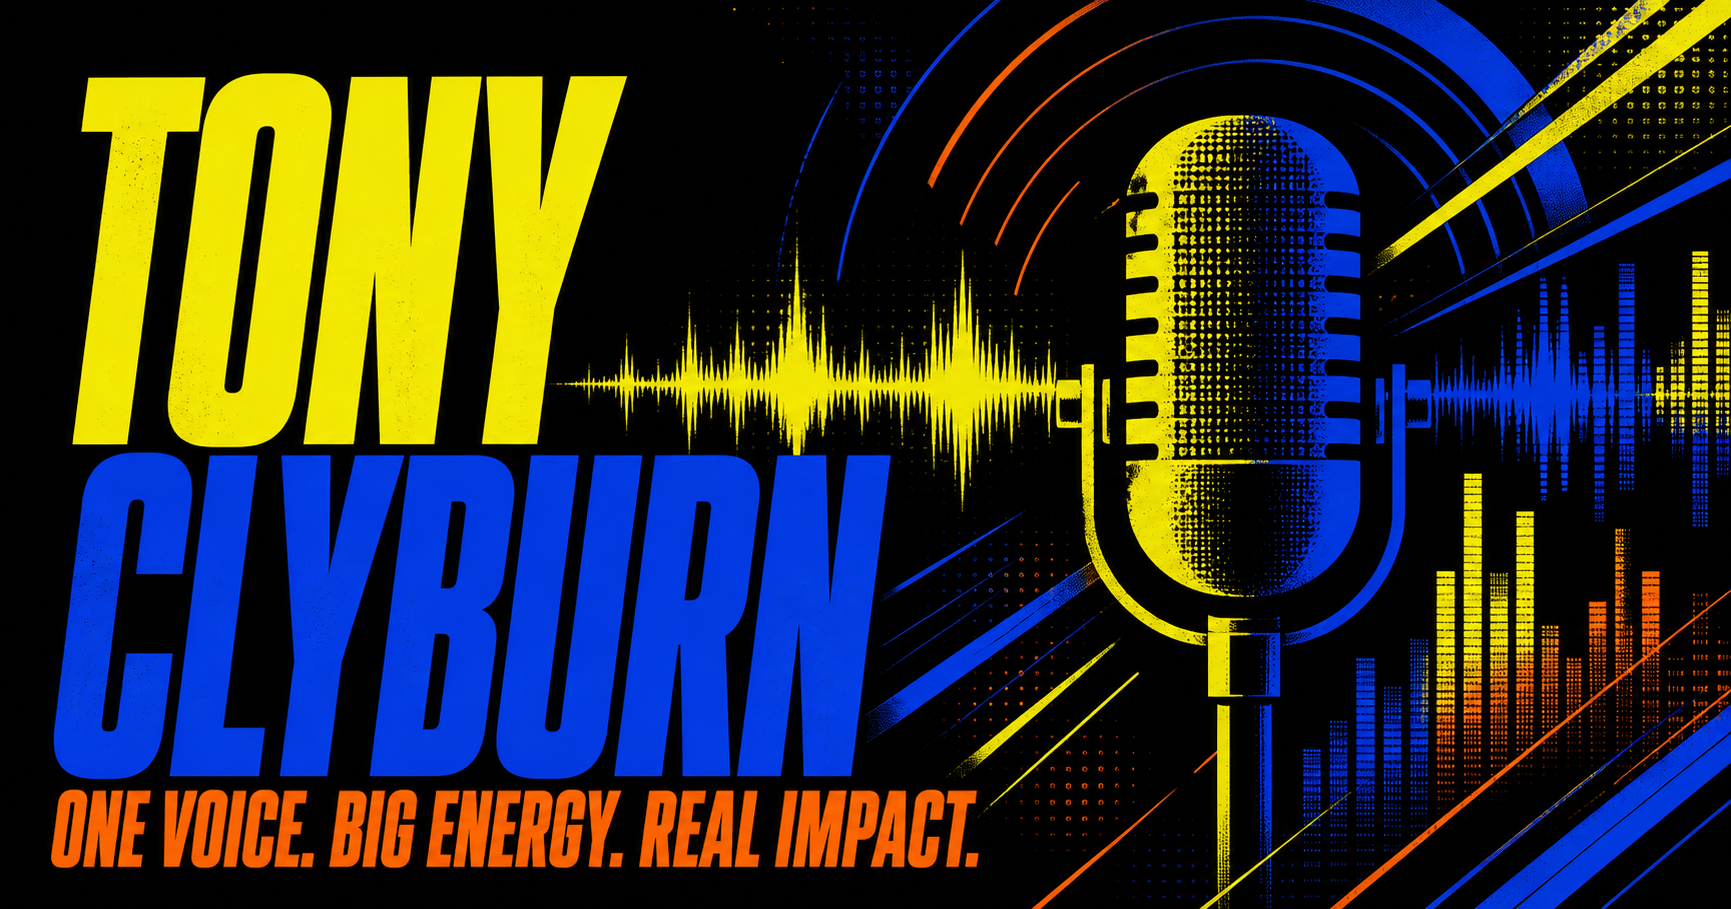
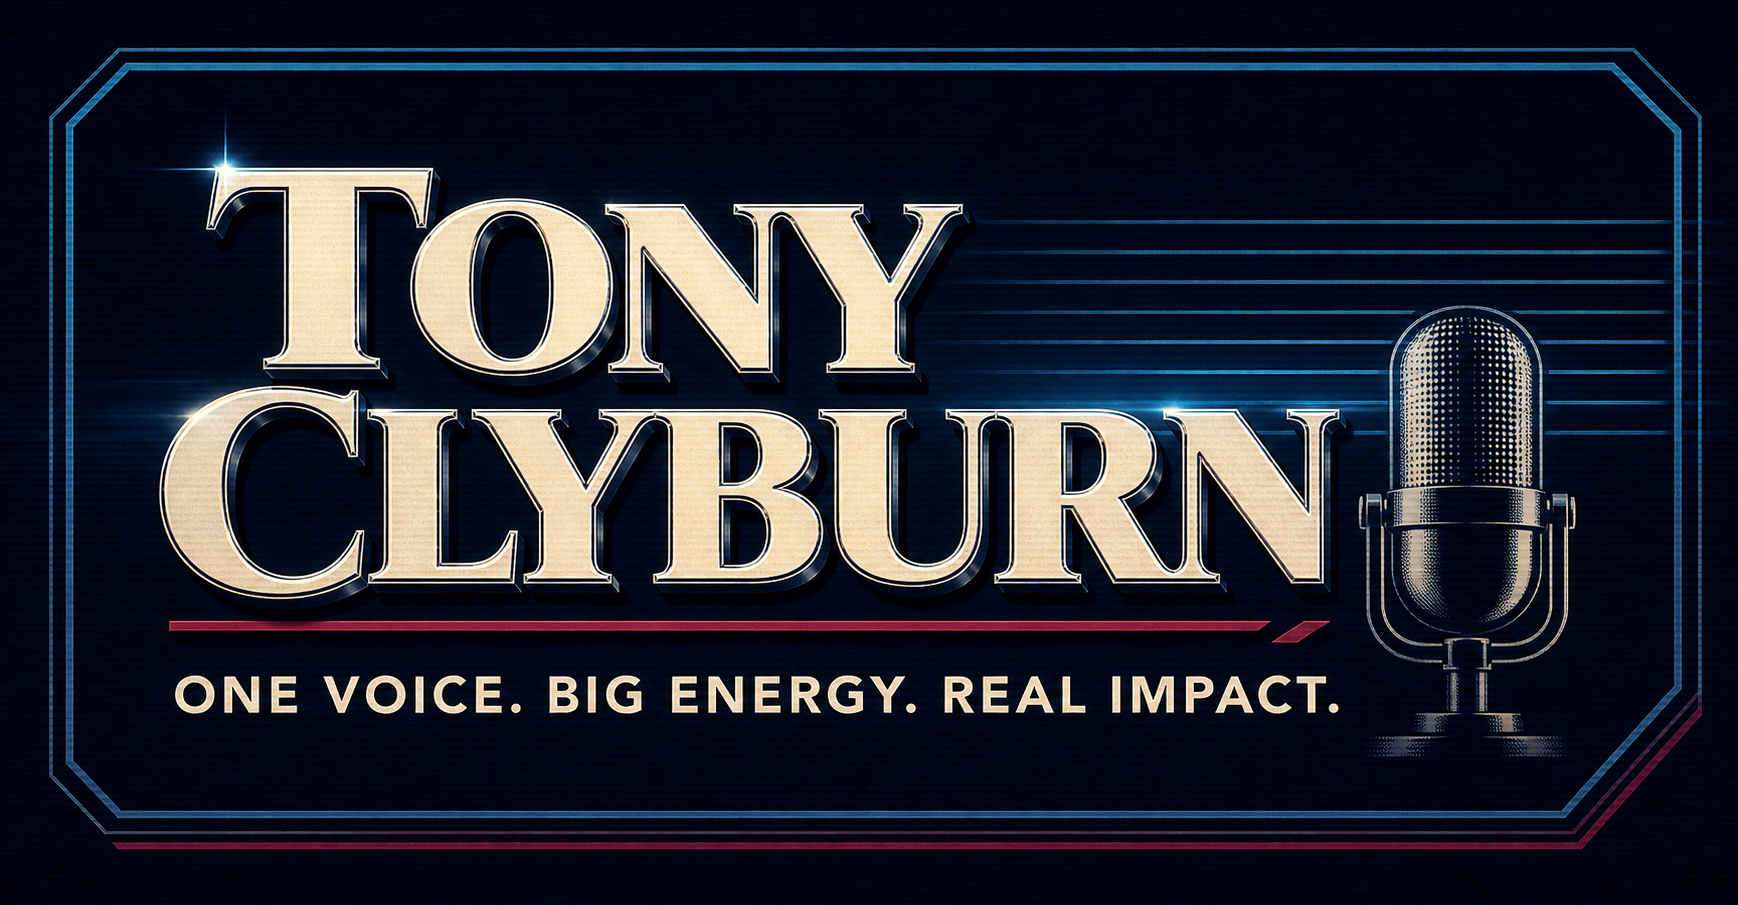
Restyle site with mature 1980s broadcast direction

diff --git a/app/globals.css b/app/globals.css
@@ -1,33 +1,33 @@
 @import 'tailwindcss';
 
-:root { --ink:#0a0a0c; --paper:#f3efe5; --acid:#dfff00; --blue:#335cff; --orange:#ff5c35; --white:#fff; --muted:#aaa99f; }
+:root { --ink:#07111f; --paper:#eee7dc; --acid:#42d9e8; --blue:#264f9e; --orange:#c43d63; --white:#f8f1e7; --muted:#aaa99f; }
 * { box-sizing:border-box; }
 html { scroll-behavior:smooth; }
-body { margin:0; background:var(--ink); color:var(--white); font-family:Arial,Helvetica,sans-serif; }
+body { margin:0; background:var(--ink); color:var(--white); font-family:"Trebuchet MS",Arial,Helvetica,sans-serif; }
 a { color:inherit; text-decoration:none; }
 button { font:inherit; }
-.site-header { position:fixed; z-index:100; inset:0 0 auto; height:82px; display:grid; grid-template-columns:1fr auto; align-items:center; padding:0 max(24px,4vw); border-bottom:1px solid rgba(255,255,255,.14); background:rgba(10,10,12,.78); backdrop-filter:blur(18px); }
+.site-header { position:fixed; z-index:100; inset:0 0 auto; height:82px; display:grid; grid-template-columns:1fr auto; align-items:center; padding:0 max(24px,4vw); border-bottom:2px solid rgba(66,217,232,.65); background:rgba(7,17,31,.94); backdrop-filter:blur(12px); }
 .wordmark { display:inline-flex; align-items:baseline; gap:8px; width:max-content; font-weight:900; letter-spacing:-.055em; }
 .wordmark span { font-size:.72rem; letter-spacing:.2em; color:var(--acid); }
 .wordmark b { font-size:1.35rem; }
 .site-header nav { display:flex; align-items:center; gap:28px; font-size:.78rem; font-weight:800; }
 .site-header nav>a:not(.nav-cta) { color:#d7d7d1; }
 .site-header nav>a:hover { color:var(--acid); }
-.nav-cta { display:inline-flex; align-items:center; gap:22px; padding:12px 16px; border-radius:999px; background:var(--acid); color:var(--ink)!important; }
+.nav-cta { display:inline-flex; align-items:center; gap:22px; padding:12px 16px; border-radius:2px; background:var(--acid); color:var(--ink)!important; box-shadow:5px 5px 0 var(--orange); }
 .menu-button { display:none; }
-.hero { position:relative; min-height:100svh; isolation:isolate; overflow:hidden; padding:120px max(24px,4vw) 76px; background:var(--ink); }
-.hero::before { content:""; position:absolute; z-index:-3; inset:0; background-image:linear-gradient(rgba(255,255,255,.045) 1px,transparent 1px),linear-gradient(90deg,rgba(255,255,255,.045) 1px,transparent 1px); background-size:80px 80px; mask-image:linear-gradient(#000,transparent 90%); }
-.hero-noise { position:absolute; inset:0; z-index:-2; opacity:.12; background-image:radial-gradient(rgba(255,255,255,.8) .65px,transparent .65px); background-size:7px 7px; }
+.hero { position:relative; min-height:100svh; isolation:isolate; overflow:hidden; padding:120px max(24px,4vw) 76px; background:radial-gradient(circle at 80% 18%,rgba(196,61,99,.22),transparent 34%),linear-gradient(135deg,#050b15 0%,#0a1a34 62%,#171027 100%); }
+.hero::before { content:""; position:absolute; z-index:-3; inset:0; background-image:linear-gradient(rgba(66,217,232,.09) 1px,transparent 1px),linear-gradient(90deg,rgba(66,217,232,.09) 1px,transparent 1px); background-size:72px 72px; mask-image:linear-gradient(#000,transparent 92%); }
+.hero-noise { position:absolute; inset:0; z-index:-2; opacity:.08; background-image:repeating-linear-gradient(0deg,rgba(255,255,255,.24) 0,rgba(255,255,255,.24) 1px,transparent 1px,transparent 5px); }
 .hero-grid { width:min(1420px,100%); min-height:calc(100svh - 196px); margin:0 auto; display:grid; grid-template-columns:1.03fr .97fr; align-items:center; gap:6vw; }
 .eyebrow { display:flex; align-items:center; gap:9px; margin:0 0 20px; color:#c3c3ba; font-size:.65rem; font-weight:900; letter-spacing:.17em; text-transform:uppercase; }
 .live-dot { width:8px; height:8px; border-radius:50%; background:var(--orange); box-shadow:0 0 0 7px rgba(255,92,53,.12); }
-h1 { margin:0; font-size:clamp(4.1rem,8vw,9rem); font-weight:950; letter-spacing:-.075em; line-height:.79; text-transform:uppercase; }
+h1 { margin:0; font-family:"Arial Black",Arial,Helvetica,sans-serif; font-size:clamp(4.1rem,8vw,9rem); font-weight:950; letter-spacing:-.055em; line-height:.82; text-transform:uppercase; text-shadow:5px 5px 0 rgba(196,61,99,.62); }
 h1 em { font-style:normal; color:var(--acid); }
 .hero-lede { max-width:690px; margin:30px 0 0; color:#b7b7af; font-size:clamp(1.05rem,1.6vw,1.28rem); line-height:1.65; }
 .hero-actions { display:flex; flex-wrap:wrap; gap:12px; margin-top:32px; }
-.button { min-height:54px; display:inline-flex; align-items:center; justify-content:center; gap:18px; padding:0 23px; border:1px solid transparent; border-radius:999px; font-size:.82rem; font-weight:900; transition:transform .2s ease,background .2s ease,color .2s ease; }
-.button:hover { transform:translateY(-3px); }
-.button-primary { background:var(--acid); color:var(--ink); }
+.button { min-height:54px; display:inline-flex; align-items:center; justify-content:center; gap:18px; padding:0 23px; border:1px solid transparent; border-radius:2px; font-size:.82rem; font-weight:900; transition:background .2s ease,color .2s ease; }
+.button:hover { transform:none; }
+.button-primary { background:var(--acid); color:var(--ink); box-shadow:7px 7px 0 var(--orange); }
 .button-primary:hover { background:var(--white); }
 .button-ghost { border-color:rgba(255,255,255,.2); background:rgba(255,255,255,.05); }
 .button-ghost:hover { background:var(--blue); border-color:var(--blue); }
@@ -39,22 +39,22 @@ h1 em { font-style:normal; color:var(--acid); }
 .hero-stats strong { color:var(--white); font-size:1.15rem; }
 .hero-stats span { margin-top:3px; color:#85857f; font-size:.67rem; }
 .hero-portrait { position:relative; min-height:680px; }
-.portrait-frame { position:absolute; inset:10px 24px 34px 40px; overflow:hidden; border-radius:52% 52% 30px 30px; background:#8399a8; box-shadow:0 50px 120px rgba(0,0,0,.42); }
+.portrait-frame { position:absolute; inset:10px 24px 34px 40px; overflow:hidden; border:2px solid var(--acid); border-radius:3px 110px 3px 3px; background:#8399a8; box-shadow:24px 24px 0 rgba(196,61,99,.72),0 40px 100px rgba(0,0,0,.38); }
 .portrait-frame::after { content:""; position:absolute; inset:0; background:linear-gradient(180deg,transparent 60%,rgba(10,10,12,.44)); }
 .portrait-frame img { object-fit:cover; object-position:center 25%; }
-.on-air-badge { position:absolute; z-index:5; top:0; right:-10px; width:142px; height:142px; display:grid; place-content:center; border-radius:50%; background:var(--orange); color:var(--ink); text-align:center; transform:rotate(7deg); box-shadow:0 20px 50px rgba(0,0,0,.3); }
+.on-air-badge { position:absolute; z-index:5; top:24px; right:-10px; width:142px; height:92px; display:grid; place-content:center; border:3px solid var(--acid); border-radius:2px; background:var(--orange); color:var(--white); text-align:center; transform:none; box-shadow:10px 10px 0 rgba(7,17,31,.78); }
 .on-air-badge span { font-size:.66rem; font-weight:900; letter-spacing:.26em; }
 .on-air-badge strong { font-size:2.35rem; line-height:1; }
-.on-air-badge i { width:9px; height:9px; margin:7px auto 0; border-radius:50%; background:var(--ink); animation:pulse 1.2s infinite; }
+.on-air-badge i { width:24px; height:3px; margin:7px auto 0; border-radius:0; background:var(--acid); animation:none; }
 @keyframes pulse { 50% { opacity:.25; transform:scale(.75); } }
-.signature-card { position:absolute; z-index:4; left:-18px; bottom:5px; width:min(400px,70%); padding:13px 19px; border:8px solid var(--ink); background:var(--white); transform:rotate(-4deg); box-shadow:0 24px 50px rgba(0,0,0,.28); }
+.signature-card { position:absolute; z-index:4; left:-18px; bottom:5px; width:min(400px,70%); padding:13px 19px; border:3px solid var(--acid); background:var(--white); transform:none; box-shadow:10px 10px 0 var(--orange); }
 .signature-card img { width:100%; height:auto; }
 .frequency { position:absolute; right:-5px; bottom:32px; z-index:5; color:var(--acid); font-size:2.15rem; font-weight:950; letter-spacing:-.06em; transform:rotate(-90deg) translateX(100%); transform-origin:right bottom; }
 .frequency span { color:var(--white); font-size:.75rem; letter-spacing:.16em; }
 .scroll-cue { position:absolute; bottom:21px; left:50%; display:flex; align-items:center; gap:11px; color:#74746e; font-size:.58rem; font-weight:900; letter-spacing:.15em; text-transform:uppercase; transform:translateX(-50%); }
 .scroll-cue span { color:var(--acid); font-size:1rem; }
 .signal-bar { overflow:hidden; border-block:1px solid #9cb300; background:var(--acid); color:var(--ink); }
-.signal-bar>div { width:max-content; display:flex; align-items:center; gap:28px; padding:15px 0; font-size:.72rem; font-weight:950; letter-spacing:.17em; animation:ticker 24s linear infinite; }
+.signal-bar>div { width:100%; display:flex; align-items:center; justify-content:center; flex-wrap:wrap; gap:16px 28px; padding:15px max(18px,4vw); font-size:.72rem; font-weight:950; letter-spacing:.17em; animation:none; }
 .signal-bar b { color:var(--blue); }
 @keyframes ticker { to { transform:translateX(-50%); } }
 @media(max-width:900px){.menu-button{display:flex;align-items:center;gap:8px;border:0;background:transparent;color:var(--white);font-size:.68rem;font-weight:900;text-transform:uppercase}.menu-button i{width:17px;height:2px;background:var(--acid)}.site-header nav{position:absolute;top:82px;left:16px;right:16px;display:none;flex-direction:column;align-items:stretch;padding:18px;border:1px solid rgba(255,255,255,.14);border-radius:18px;background:#111115}.site-header nav.nav-open{display:flex}.hero-grid{grid-template-columns:1fr}.hero-copy{padding-top:26px}.hero-portrait{width:min(700px,100%);min-height:650px;margin-inline:auto}}
@@ -65,7 +65,7 @@ h1 em { font-style:normal; color:var(--acid); }
 .skip-link:focus { transform:translateY(0); }
 .section-shell { width:min(1420px,100%); margin-inline:auto; }
 .section-kicker { margin:0 0 18px; color:var(--blue); font-size:.68rem; font-weight:950; letter-spacing:.19em; text-transform:uppercase; }
-h2 { margin:0; font-size:clamp(3rem,6.3vw,7.2rem); font-weight:950; letter-spacing:-.065em; line-height:.86; text-transform:uppercase; }
+h2 { margin:0; font-family:"Arial Black",Arial,Helvetica,sans-serif; font-size:clamp(3rem,6.3vw,7.2rem); font-weight:950; letter-spacing:-.055em; line-height:.88; text-transform:uppercase; }
 h2 em { color:var(--blue); font-style:normal; }
 .big-copy { font-size:clamp(1.25rem,2vw,1.85rem); font-weight:750; letter-spacing:-.025em; line-height:1.35; }
 .text-link { display:inline-flex; gap:18px; align-items:center; margin-top:22px; border-bottom:2px solid currentColor; padding-bottom:8px; font-size:.82rem; font-weight:950; text-transform:uppercase; }
@@ -73,36 +73,35 @@ h2 em { color:var(--blue); font-style:normal; }
 .about-section { padding:140px max(24px,4vw); background:var(--paper); color:var(--ink); }
 .about-grid { display:grid; grid-template-columns:minmax(0,.86fr) minmax(0,1.14fr); gap:clamp(48px,8vw,130px); align-items:center; }
 .about-media { position:relative; min-height:700px; }
-.about-image { position:absolute; inset:0 8% 0 0; overflow:hidden; border-radius:2px 220px 2px 2px; background:#211f1b; }
+.about-image { position:absolute; inset:0 8% 0 0; overflow:hidden; border:3px solid var(--blue); border-radius:2px; background:#211f1b; box-shadow:18px 18px 0 rgba(196,61,99,.82); }
 .about-image img { object-fit:cover; object-position:center top; filter:saturate(.82) contrast(1.04); }
 .about-image::after { content:""; position:absolute; inset:0; background:linear-gradient(180deg,transparent 62%,rgba(10,10,12,.56)); }
-.about-quote { position:absolute; right:0; bottom:38px; width:min(420px,74%); padding:30px; border:7px solid var(--paper); background:var(--acid); transform:rotate(-3deg); box-shadow:0 30px 70px rgba(10,10,12,.2); }
-.about-quote p { margin:0; font-size:clamp(1.25rem,2.1vw,2rem); font-weight:950; letter-spacing:-.035em; line-height:1.03; text-transform:uppercase; }
-.years-stamp { position:absolute; top:-34px; right:-22px; width:132px; height:132px; display:grid; place-content:center; border-radius:50%; background:var(--blue); color:var(--white); text-align:center; transform:rotate(8deg); }
+.about-media blockquote { position:absolute; right:0; bottom:38px; width:min(420px,74%); margin:0; padding:30px; border:3px solid var(--acid); background:var(--ink); color:var(--white); font-family:"Arial Black",Arial,sans-serif; font-size:clamp(1.15rem,2vw,1.85rem); font-weight:950; letter-spacing:-.025em; line-height:1.08; text-transform:uppercase; box-shadow:10px 10px 0 var(--orange); }
+.years-stamp { position:absolute; top:-30px; right:-12px; width:132px; height:112px; display:grid; place-content:center; border:3px solid var(--ink); border-radius:2px; background:var(--acid); color:var(--ink); text-align:center; transform:none; box-shadow:8px 8px 0 var(--blue); }
 .years-stamp strong { font-size:2.3rem; line-height:.9; }
 .years-stamp span { margin-top:6px; font-size:.58rem; font-weight:950; letter-spacing:.12em; text-transform:uppercase; }
 .about-copy>p:not(.section-kicker) { max-width:740px; color:#4b4942; font-size:1rem; line-height:1.72; }
 .about-copy .big-copy { color:var(--ink)!important; }
 
-.services-section { padding:140px max(24px,4vw); background:var(--blue); color:var(--white); }
+.services-section { padding:140px max(24px,4vw); background:linear-gradient(135deg,#193d7c 0%,var(--blue) 56%,#1a254b 100%); color:var(--white); }
 .section-head { display:grid; grid-template-columns:minmax(0,1.5fr) minmax(260px,.5fr); gap:60px; align-items:end; margin-bottom:70px; }
 .section-head .section-kicker { color:var(--acid); }
 .section-head h2 em { color:var(--acid); }
 .section-head>p { margin:0; color:#d9dffc; font-size:1.08rem; line-height:1.65; }
 .services-grid { display:grid; grid-template-columns:repeat(4,1fr); border:1px solid rgba(255,255,255,.24); }
-.service-card { min-height:470px; display:flex; flex-direction:column; padding:28px; background:rgba(255,255,255,.03); transition:background .25s ease,transform .25s ease; }
+.service-card { min-height:470px; display:flex; flex-direction:column; padding:28px; background:rgba(7,17,31,.22); transition:background .2s ease,color .2s ease; }
 .service-card+.service-card { border-left:1px solid rgba(255,255,255,.24); }
-.service-card:hover { z-index:2; background:var(--acid); color:var(--ink); transform:translateY(-8px); }
+.service-card:hover { z-index:2; background:var(--paper); color:var(--ink); transform:none; }
 .service-top { display:flex; justify-content:space-between; align-items:center; padding-bottom:20px; border-bottom:1px solid currentColor; font-size:.62rem; font-weight:900; letter-spacing:.18em; text-transform:uppercase; }
 .service-top b { font-size:1rem; }
 .service-card h3 { margin:50px 0 18px; font-size:clamp(1.75rem,2.2vw,2.55rem); letter-spacing:-.055em; line-height:.95; }
 .service-card p { margin:0; color:#d9dffc; line-height:1.65; }
 .service-card:hover p { color:#28281f; }
 .service-tag { margin-top:26px; color:var(--acid); font-size:.65rem; font-weight:900; letter-spacing:.07em; }
-.service-card:hover .service-tag { color:var(--blue); }
+.service-card:hover .service-tag { color:var(--orange); }
 .service-card>a { margin-top:auto; padding-top:32px; font-size:.72rem; font-weight:950; text-transform:uppercase; }
 
-.work-section { position:relative; overflow:hidden; padding:150px max(24px,4vw); background:var(--ink); color:var(--white); }
+.work-section { position:relative; overflow:hidden; padding:150px max(24px,4vw); background:radial-gradient(circle at 20% 20%,rgba(38,79,158,.25),transparent 34%),var(--ink); color:var(--white); }
 .work-word { position:absolute; top:-4vw; left:-2vw; color:rgba(255,255,255,.035); font-size:20vw; font-weight:950; letter-spacing:-.08em; line-height:1; white-space:nowrap; }
 .work-grid { position:relative; display:grid; grid-template-columns:.86fr 1.14fr; gap:clamp(50px,9vw,150px); }
 .work-intro { position:sticky; top:130px; align-self:start; }
@@ -116,11 +115,11 @@ h2 em { color:var(--blue); font-style:normal; }
 .proof-stack strong { font-size:clamp(1.65rem,3vw,3.4rem); letter-spacing:-.045em; line-height:.95; }
 .proof-stack p { grid-column:2; max-width:620px; margin:0; color:#9d9d96; line-height:1.6; }
 
-.philosophy-section { padding:140px max(24px,4vw); background:var(--acid); color:var(--ink); }
+.philosophy-section { padding:140px max(24px,4vw); border-block:7px solid var(--orange); background:linear-gradient(135deg,var(--paper),#d9e8e7); color:var(--ink); }
 .philosophy-grid { display:grid; grid-template-columns:auto minmax(0,1.2fr) minmax(300px,.65fr); gap:clamp(36px,6vw,95px); align-items:center; }
 .vertical-label { margin:0; font-size:.63rem; font-weight:950; letter-spacing:.18em; writing-mode:vertical-rl; transform:rotate(180deg); }
 .philosophy-section .section-kicker { color:var(--blue); }
-.philosophy-section h2 em { color:var(--blue); }
+.philosophy-section h2 em { color:var(--orange); }
 .philosophy-copy p { line-height:1.65; }
 .button-dark { margin-top:20px; background:var(--ink); color:var(--white); }
 .button-dark:hover { background:var(--blue); }
@@ -134,7 +133,7 @@ h2 em { color:var(--blue); font-style:normal; }
 .direct-contact { display:flex; flex-direction:column; gap:7px; margin-top:38px; }
 .direct-contact a { width:max-content; color:var(--blue); font-size:clamp(1.7rem,3vw,3.25rem); font-weight:950; letter-spacing:-.055em; }
 .direct-contact span { font-size:.68rem; font-weight:900; letter-spacing:.13em; text-transform:uppercase; }
-.contact-form { padding:38px; background:var(--white); box-shadow:0 30px 90px rgba(28,26,20,.13); }
+.contact-form { padding:38px; border:3px solid var(--blue); background:var(--white); box-shadow:16px 16px 0 var(--orange); }
 .form-top { display:flex; justify-content:space-between; margin-bottom:34px; padding-bottom:20px; border-bottom:2px solid var(--ink); font-size:.72rem; letter-spacing:.15em; }
 .form-row { display:grid; grid-template-columns:1fr 1fr; gap:20px; }
 .contact-form label { display:flex; flex-direction:column; gap:8px; margin-bottom:19px; font-size:.67rem; font-weight:950; letter-spacing:.1em; text-transform:uppercase; }
@@ -177,4 +176,11 @@ footer { padding:58px max(24px,4vw) 28px; background:var(--ink); color:var(--whi
   .proof-stack article{grid-template-columns:1fr;gap:10px}.proof-stack p{grid-column:1}
   .philosophy-grid{grid-template-columns:1fr}.vertical-label{writing-mode:initial;transform:none}.philosophy-copy{grid-column:1}
   .contact-form{padding:24px 20px}.form-row{grid-template-columns:1fr}.footer-bottom{flex-direction:column;gap:10px}
+}
+
+@media(max-width:560px){
+  .portrait-frame{border-radius:2px}
+  .about-image{border-radius:2px}
+  .on-air-badge{width:104px;height:76px}
+  .contact-form{box-shadow:8px 8px 0 var(--orange)}
 }

diff --git a/app/page.tsx b/app/page.tsx
@@ -52,7 +52,7 @@ export default function Home() {
           <a className="scroll-cue" href="#about">Keep scrolling <span>↓</span></a>
         </section>
 
-        <div className="signal-bar" aria-label="Tony Clyburn specialties"><div><span>VOICEOVERS</span><b>✦</b><span>PUBLIC SPEAKING</span><b>✦</b><span>EVENT HOSTING</span><b>✦</b><span>COMMUNITY IMPACT</span><b>✦</b><span>VOICEOVERS</span><b>✦</b><span>PUBLIC SPEAKING</span><b>✦</b><span>EVENT HOSTING</span><b>✦</b><span>COMMUNITY IMPACT</span><b>✦</b></div></div>
+        <div className="signal-bar" aria-label="Tony Clyburn specialties"><div><span>VOICEOVERS</span><b>◆</b><span>PUBLIC SPEAKING</span><b>◆</b><span>EVENT HOSTING</span><b>◆</b><span>COMMUNITY IMPACT</span></div></div>
 
         <section className="section about-section" id="about">
           <div className="section-shell about-grid">

diff --git a/app/layout.tsx b/app/layout.tsx
@@ -11,7 +11,7 @@ export const metadata: Metadata = {
     description: 'Radio personality, voice actor, speaker, host, and community connector Tony Clyburn.',
     url: '/',
     siteName: 'Tony Clyburn',
-    images: [{ url: '/og.png', width: 1732, height: 910, alt: 'Tony Clyburn — One Voice. Big Energy. Real Impact.' }],
+    images: [{ url: '/og.png', width: 1738, height: 905, alt: 'Tony Clyburn — One Voice. Big Energy. Real Impact.' }],
     locale: 'en_US',
     type: 'website',
   },
